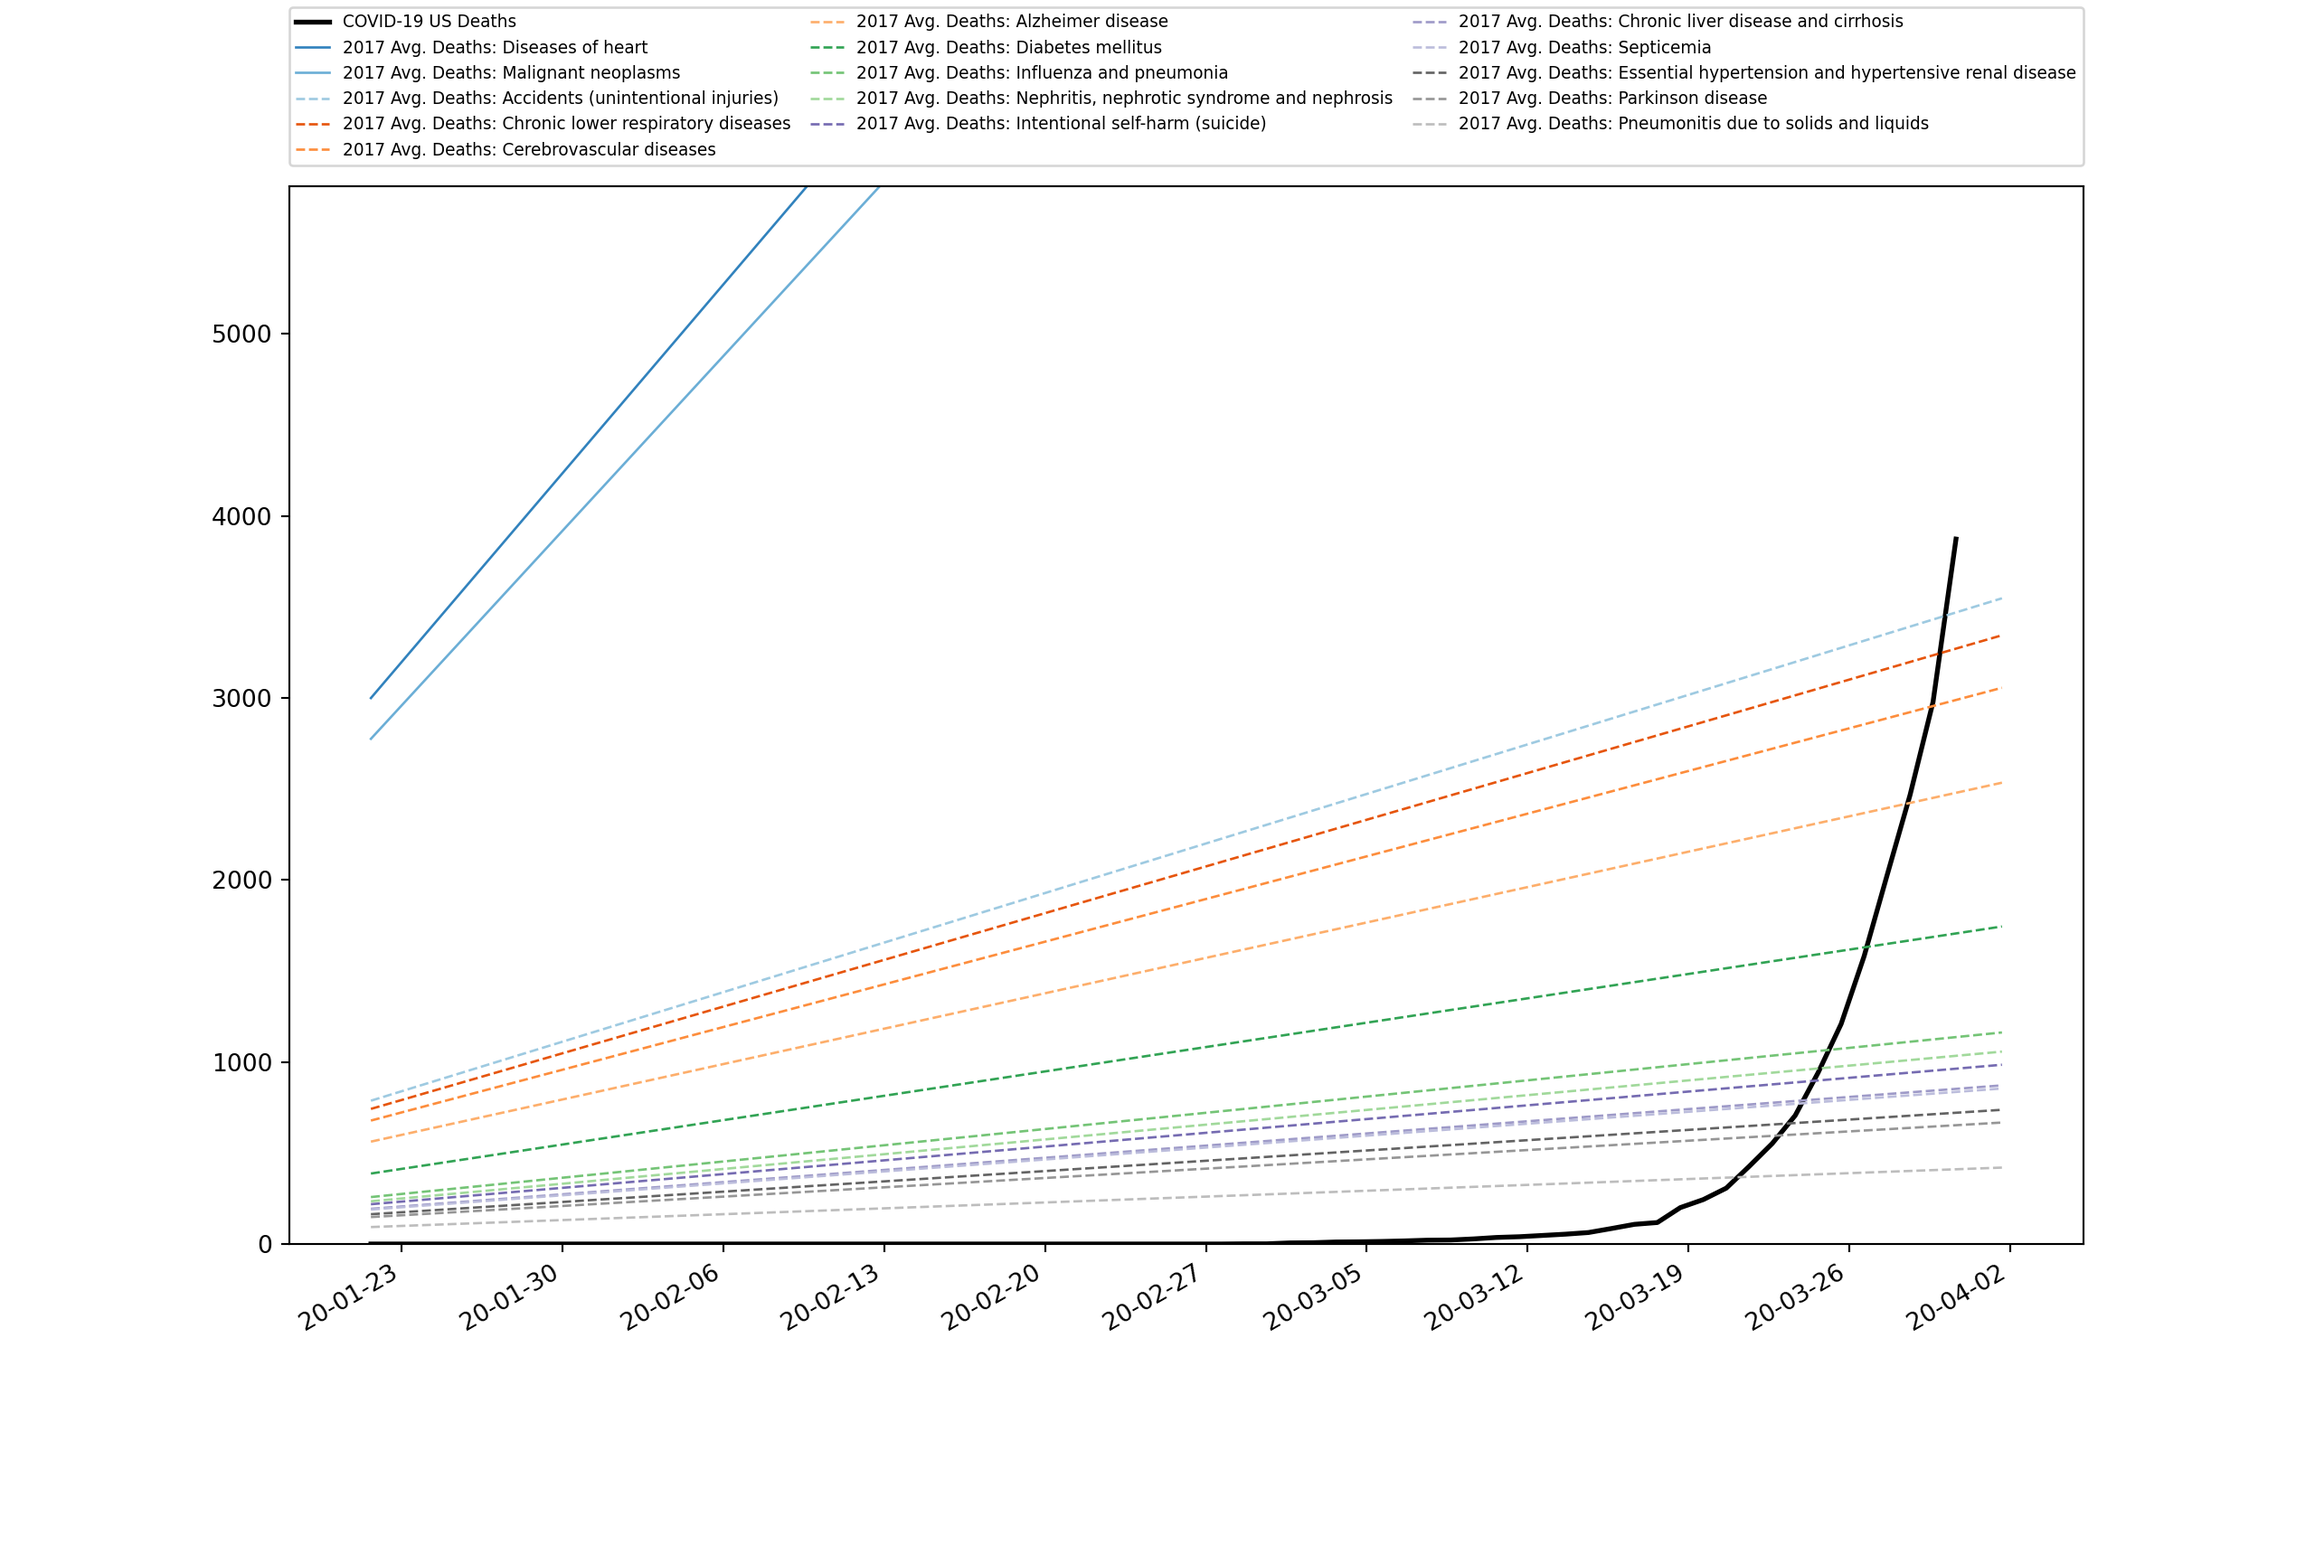
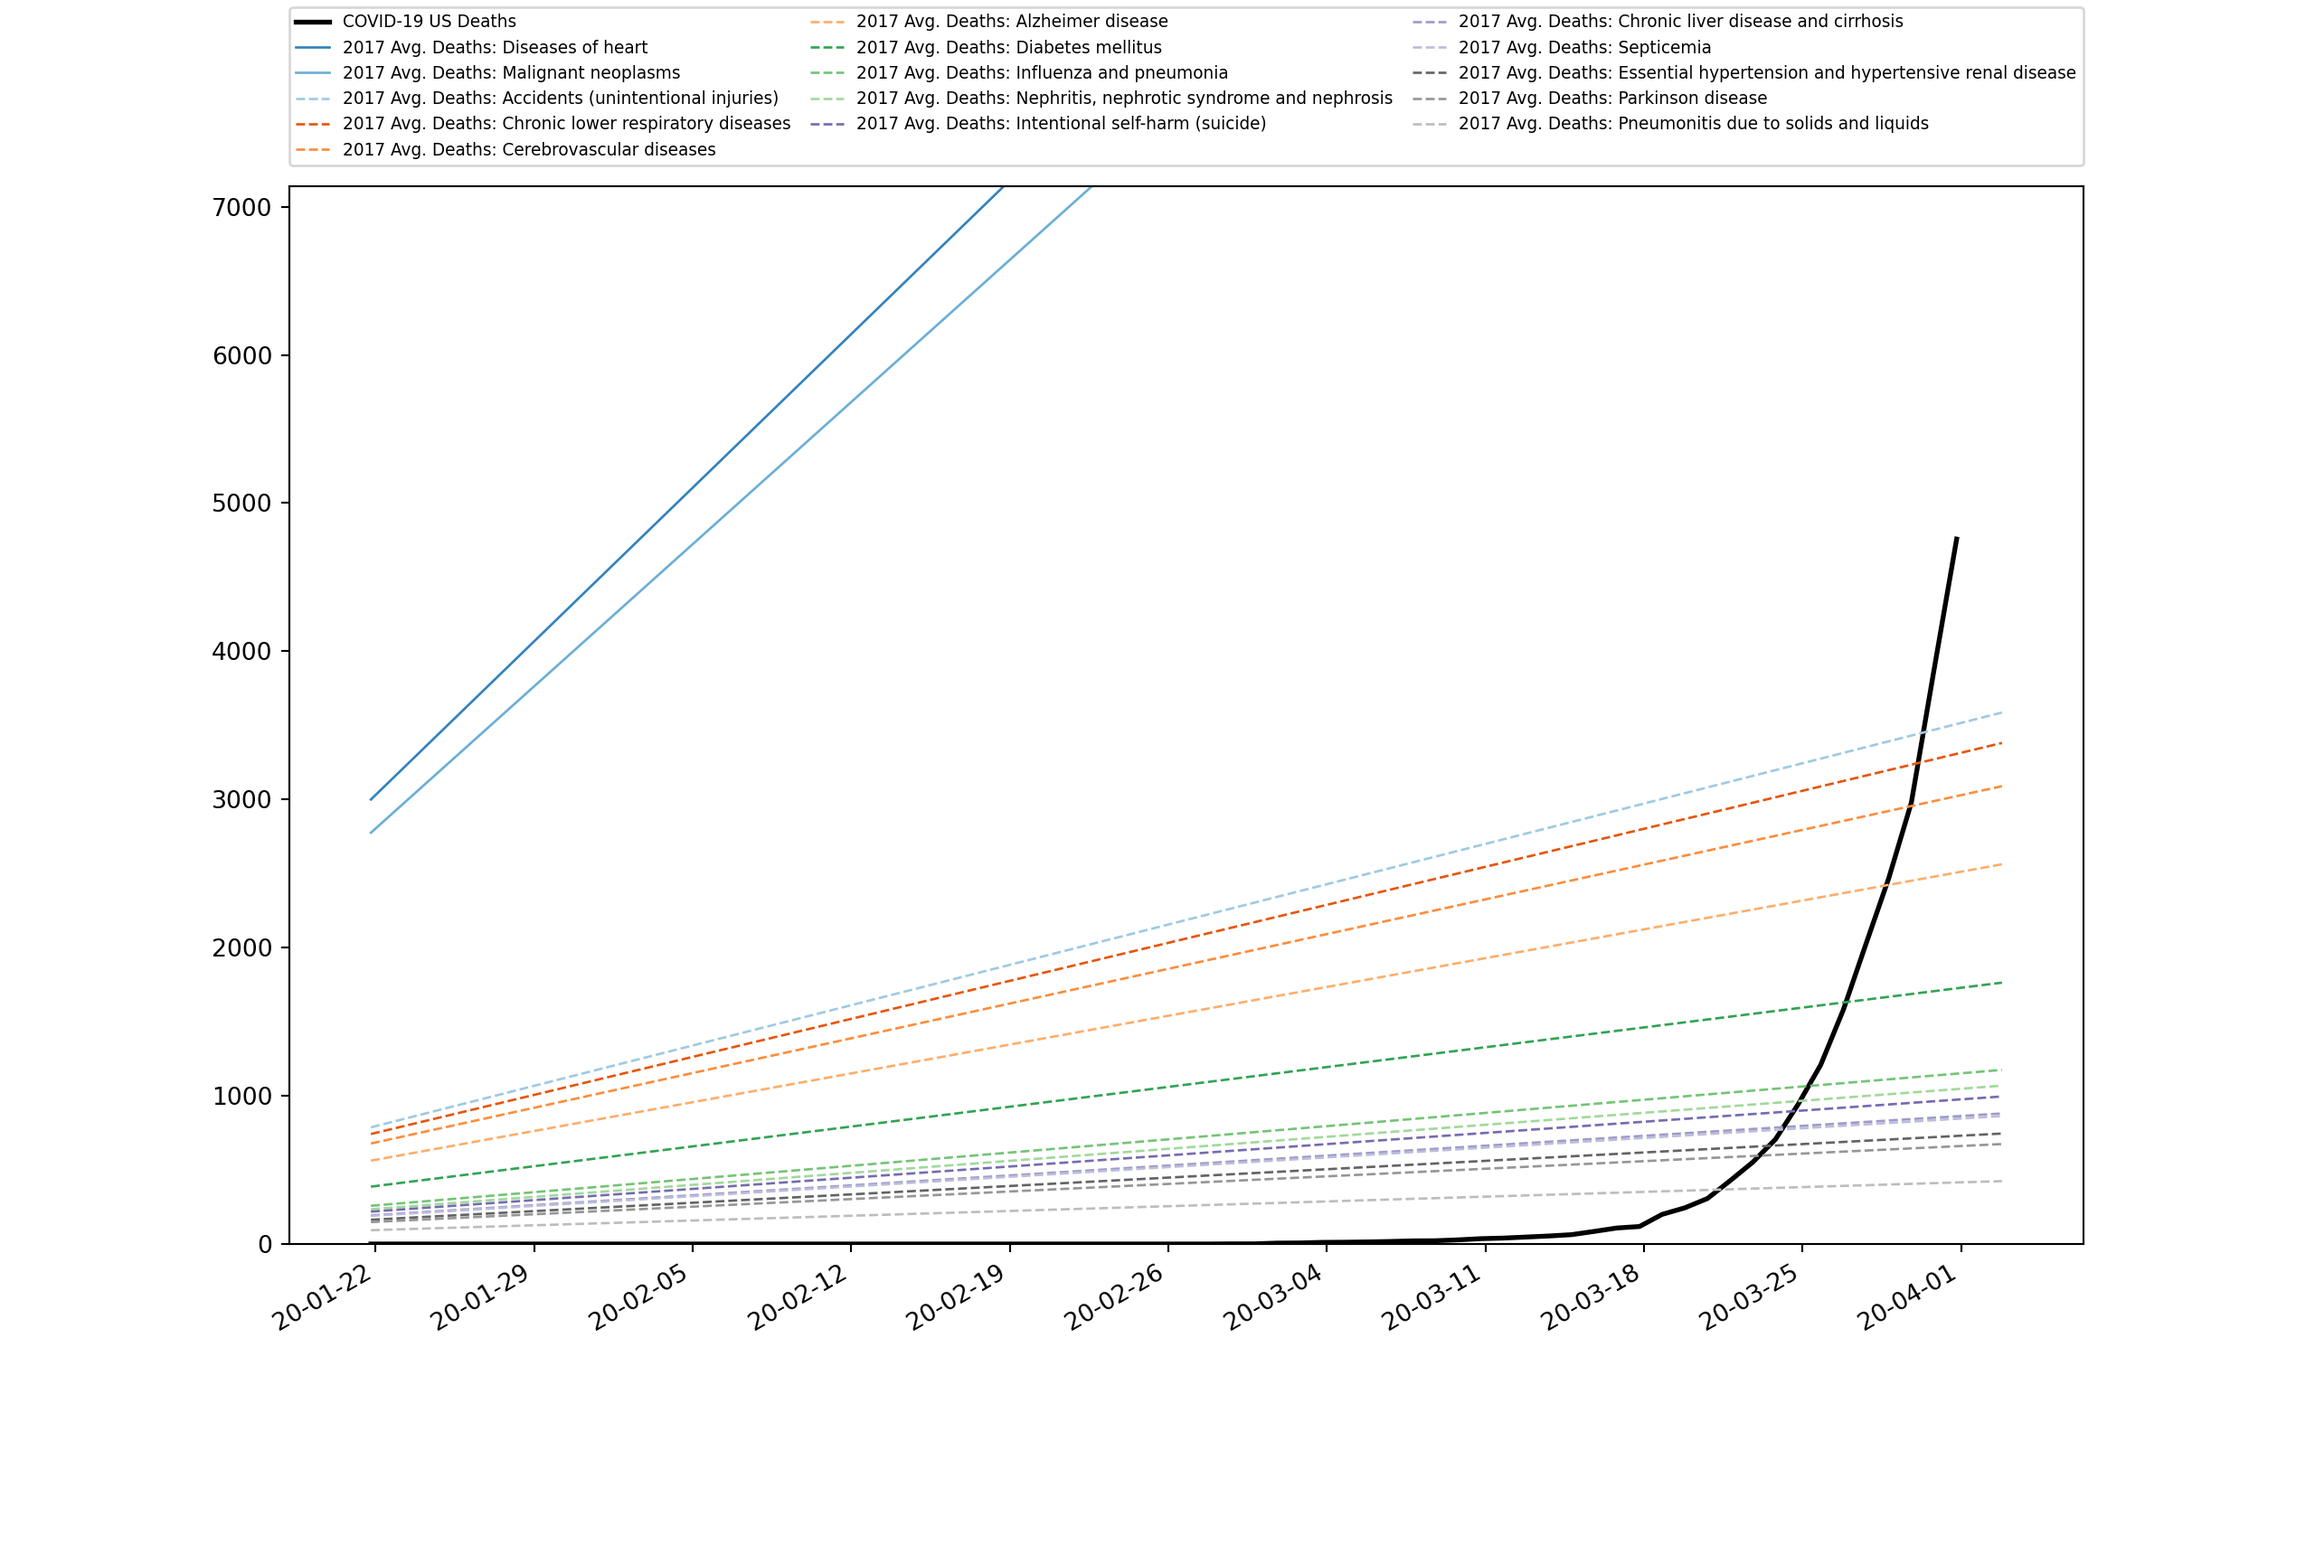
Update graphs with latest data

diff --git a/csse_covid_19_data/csse_covid_19_daily_reports/doplot-non-cumulative.py b/csse_covid_19_data/csse_covid_19_daily_reports/doplot-non-cumulative.py
@@ -22,7 +22,7 @@ rule = rrulewrapper(WEEKLY, interval=1)
 loc = RRuleLocator(rule)
 formatter = DateFormatter('%y-%m-%d')
 date1 = datetime.date(2020, 1, 22)
-date2 = datetime.date(2020, 4, 1)
+date2 = datetime.date(2020, 4, 2)
 delta = datetime.timedelta(days=1)
 
 dates = drange(date1, date2, delta)
